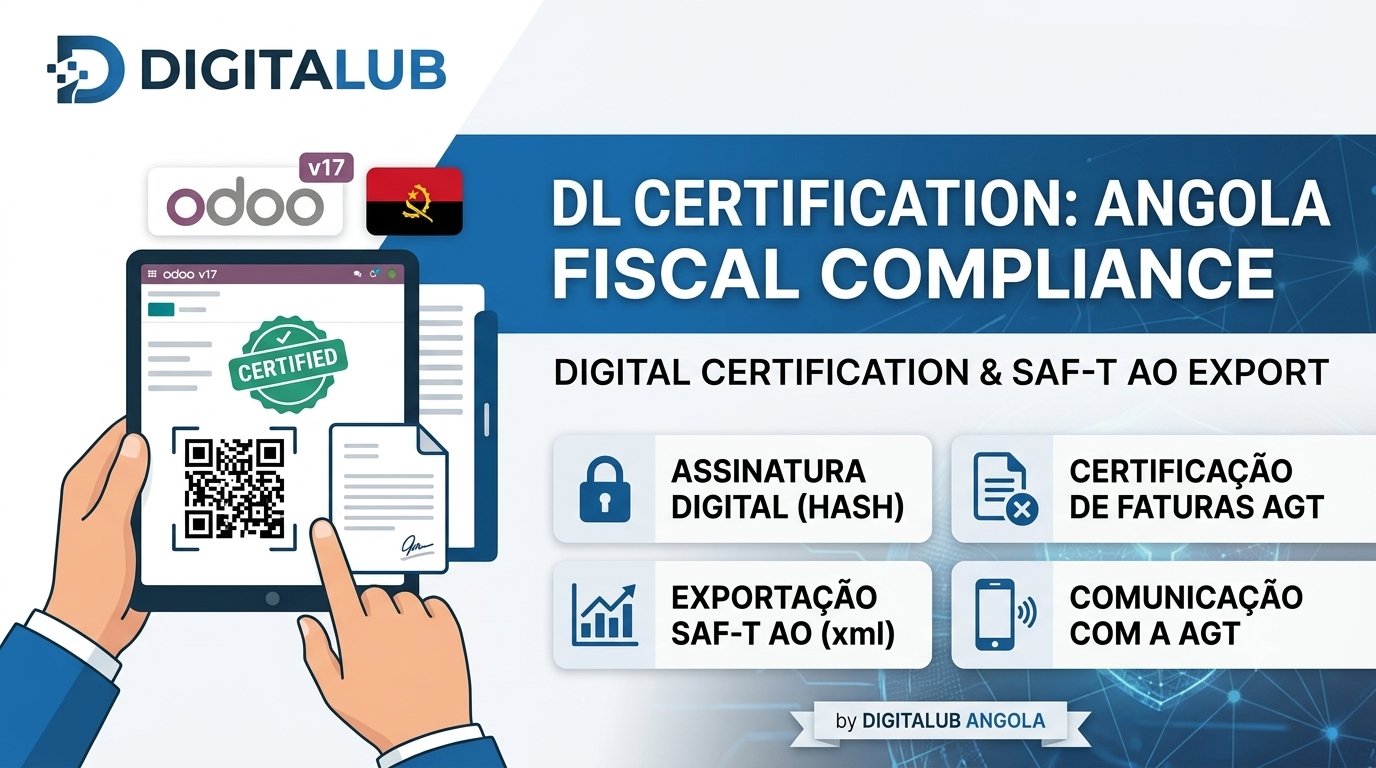
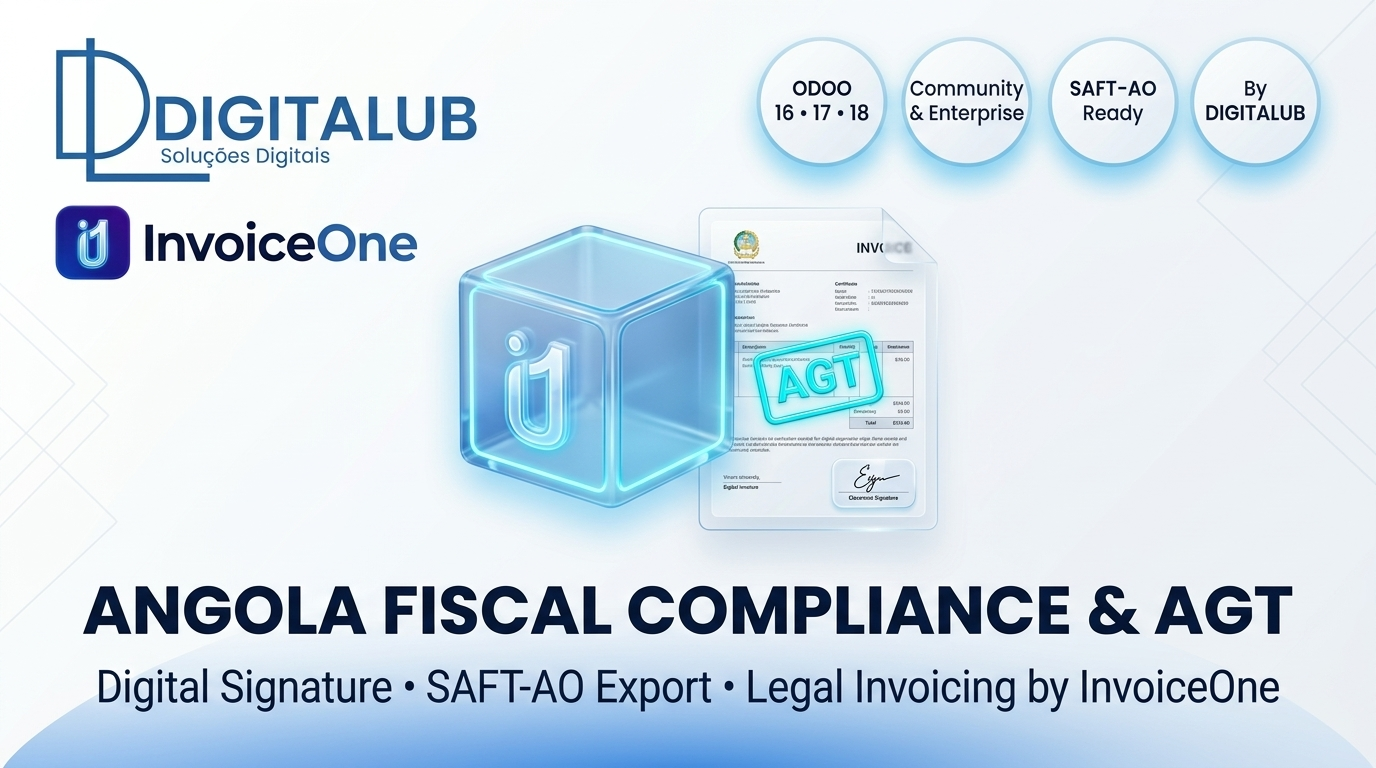
feat: apply Digitalub Master Visual Rebranding & Pricing Strategy

diff --git a/dl_certification_ao/static/description/index.html b/dl_certification_ao/static/description/index.html
@@ -1,3 +1,6 @@
+<div style="text-align: center; margin: 20px auto 35px auto; max-width: 1200px;">
+    <img src="banner.png" alt="Official Banner" style="width: 100%; border-radius: 12px; box-shadow: 0 10px 30px rgba(0,0,0,0.08);" />
+</div>
 <section class="oe_container" style="font-family: 'Montserrat', 'Segoe UI', Roboto, sans-serif; background-color: #ffffff;">
     
     <!-- Cabeçalho Principal (Badges e Título) -->

diff --git a/dl_certification_ao/__manifest__.py b/dl_certification_ao/__manifest__.py
@@ -1,8 +1,8 @@
 # -*- coding: utf-8 -*-
 # Formerly: opc_certification_ao_v17
 {
-    'name': "Angola - DL Certification - Digitalub",
-    'summary': """Módulo de Certificação de Faturamento e Localização Fiscal para Angola (AGT / SAF-T)""",
+    'name': 'Angola Fiscal Compliance & AGT Certification (InvoiceOne)',
+    'summary': 'Angola Fiscal Compliance & Invoicing Certification (AGT & SAF-T AO) by InvoiceOne',
     'description': """
 Core de Certificação Fiscal da DIGITALUB para o mercado de Angola.
 ==================================================================
@@ -14,9 +14,9 @@ Core de Certificação Fiscal da DIGITALUB para o mercado de Angola.
     'author': "DIGITALUB ANGOLA, LDA",
     'website': "https://www.digitalub.ao",
     'category': 'Accounting/Localizations',
-    'version': '17.0.1.0',
+    'version': '17.0.1.0.1',
     'license': 'OPL-1',  # Licença comercial proprietária para venda na Odoo Store
-    'price': 799.00,     # Preço sugerido em Euros/Dólares na plataforma
+    'price': 640.0,     # Preço sugerido em Euros/Dólares na plataforma
     'currency': 'EUR',   # Moeda padrão da loja de aplicativos do Odoo
     
     # Dependências de módulos do sistema e localização base
